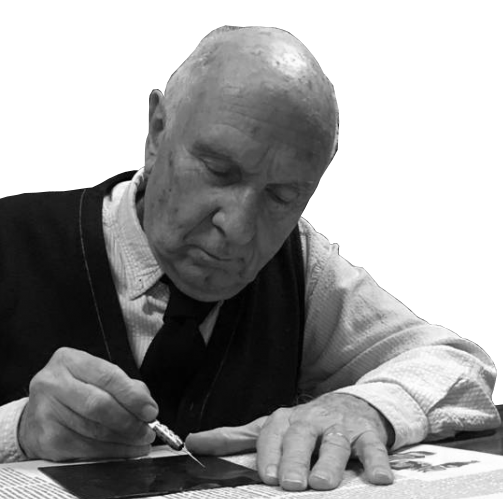
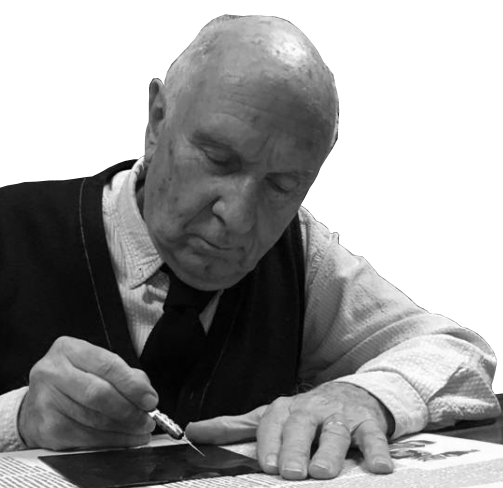
modifiche

diff --git a/css/associazione.css b/css/associazione.css
@@ -514,17 +514,34 @@ footer div p{
 @media(max-width:1020px){
     .modale_grizzanti{
         height: 750px;
+        width: 400px;
+    }
+    .modale_chiabrando{
+        height: 750px;
+        width: 400px;
+    }
+    .modale_massimo{
+        height: 750px;
+        width: 400px;
     }
     .img{
         display: block;
     }
     .img img{
+        max-width: 75%;
         margin-left: 1.5rem;
+        margin-top: 0.25rem;
+    }
+    .specifiche{
+        margin-top: 1rem;
+    }
+    .specifiche .date{
+        margin-top: 1rem;
     }
     .testofond-ass{
-        margin: 1rem 1rem 0 0;
+        margin: 0 0.5rem 0 0;
         line-height: 1.5;
-        width: 300px;
+        width: 350px;
     }
 
 }
